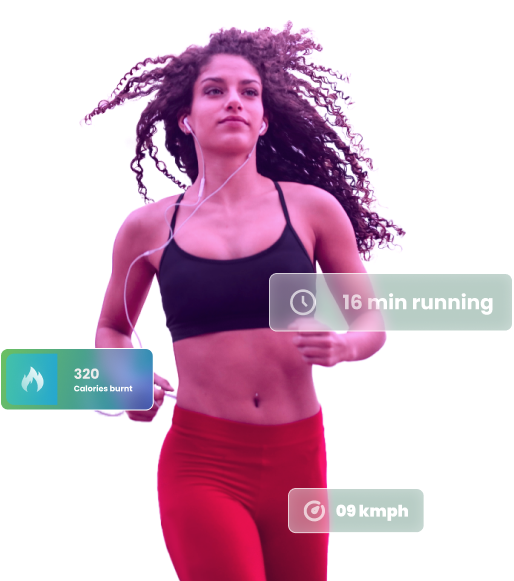
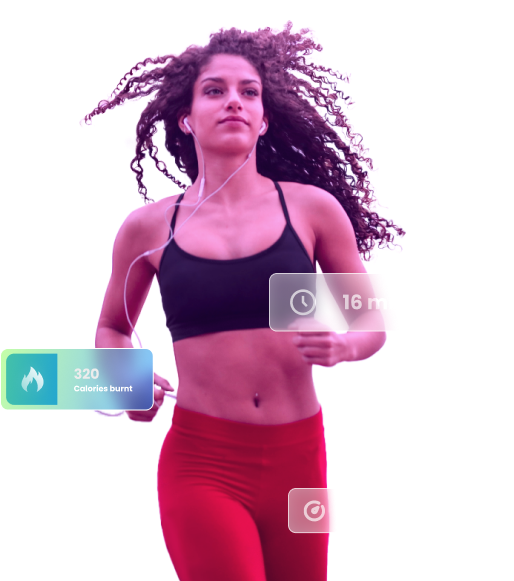
responsive

diff --git a/src/App.js b/src/App.js
@@ -1,30 +1,16 @@
 
 import React from 'react';
-import First from './sections/First';
-import Second from './sections/Second';
-import Third from './sections/Third';
-import Fourth from './sections/Fourth';
 import Contact_Us from './sections/Contact_Us';
-import Fifth from './sections/Fifth';
-import Sixth from './sections/Sixth';
-// import Seventh from './sections/seventh';
-import HeroSection from './sections/HeroSection';
 import { BrowserRouter, Outlet, Route, Routes } from "react-router-dom";
-import Firstwhite from './sections/Firstwhite';
 import "./App.css";
 import Home from "./Home"
-import Lastsecond from './sections/About';
-import Lastthird from './sections/Lastthird';
-import Footer from './sections/Footer';
-import Cards from './sections/Cards';
-import Navbar from './sections/Navbar';
 import WhiteList from './sections/WhiteList';
 import TnC from './sections/TnC';
 import Privacy_policy from './sections/Privacy_policy';
-import { home } from 'fontawesome';
-import {Navigate,useLocation} from "react-router-dom"
+import {Navigate} from "react-router-dom"
 function App() {
-
+  var ip = require("ip");
+  console.dir ( ip.address() );
   return (
     <>
    

diff --git a/src/sections/Contact_Us.css b/src/sections/Contact_Us.css
@@ -1,7 +1,6 @@
 
 .contact{
     width: 100%;
-    height: 100vh;
     justify-content: space-between;
     color: white;
     display: flex;
@@ -22,7 +21,7 @@
     width: 30vw;
     margin-top: 30px;
     /* min-width: 400px; */
-    height: 80vh;
+    /* height: 80vh; */
     border: 1px solid white;
     border-radius: 20px;
     color: black;
@@ -62,11 +61,10 @@
     .contact span:nth-child(2)
     {
         display: flex;
-        background-color: #fff;
+  
     }
     .contact-child{
-        /* margin-top: 0px; */
-        height: 60vh;
+     
         width: 90vw;
     }
 }

diff --git a/src/sections/Whitelist.css b/src/sections/Whitelist.css
@@ -28,13 +28,13 @@
 .whitelist-info form {
     outline: none;
     margin: 10px 0px;
-    height: 6vh;
+    height: 50px;
     z-index: 1;
 
     overflow: hidden;
     /* padding: 0px; */
     border-radius: 50px;
-    border: 2px solid rgb(202, 202, 202);
+    outline: 2px solid rgb(202, 202, 202);
 }
 
 .whitelist-info button {
@@ -45,9 +45,10 @@
     /* top: -1px; */
     background-color: #0086FB;
     color: white;
+
     outline: none;
     border: none;
-    height: 6vh;
+    height: 100%;
     z-index: 2;
 }
 

diff --git a/src/sections/HeroSection.js b/src/sections/HeroSection.js
@@ -13,7 +13,8 @@ function HeroSection() {
       <span>
       Zippy is world’s first move to earn metaverse focused on outdoor and indoor runners, joggers and walkers.
       </span>
-      <button className='btn' > How it works</button>
+     <a href='#howitworks'>
+     <button className='btn' > How it works</button></a> 
         </div>
   )
 }

diff --git a/src/sections/Second.js b/src/sections/Second.js
@@ -16,7 +16,7 @@ function Second() {
         <button className='btn' style={{ marginLeft: "48px" }} href="#">Know More</button>
       </div>
       <div className='img-fifth'>
-        <img src="second.png" alt='' />
+        <img width={200} src="second.png" alt='' />
       </div>
     </div>
   );

diff --git a/src/sections/Cards.css b/src/sections/Cards.css
@@ -171,3 +171,8 @@ padding:10px 20px;
     text-decoration: none;
     cursor: pointer;
   }
+  @media only screen and (max-width: 600px){
+      .modal-content{
+          width: 90vw;
+      }
+  }

diff --git a/src/sections/fifth.css b/src/sections/fifth.css
@@ -30,7 +30,7 @@
    
     .img-fifth{
         margin-top: 32px;
-        width: 90%;
+        width: 100%;
         overflow: hidden;
         height: 90%;
         /* position: relative;  */

diff --git a/src/sections/second.css b/src/sections/second.css
@@ -4,7 +4,7 @@
     color: white;
     width: 100%;
     display: flex;
-    height:100vh;
+min-height: 100vh;
     font-family: 'Poppins', sans-serif;
     /* height: 100vh; */
     }

diff --git a/src/sections/Navbar.css b/src/sections/Navbar.css
@@ -48,8 +48,6 @@ z-index: 20;
   opacity: 0.8;
 }
 .zippylogo{
-   /* size: 50%;
-    */
-   height: 5vh;
+ height: 35px;
     margin-left: 4vw;
 }

diff --git a/src/sections/WhiteList.js b/src/sections/WhiteList.js
@@ -51,9 +51,7 @@ console.log(data)
         
     };
     
-useEffect(()=>{
-    window.scrollTo(0,0);
-},[])
+
 
 
     return (
